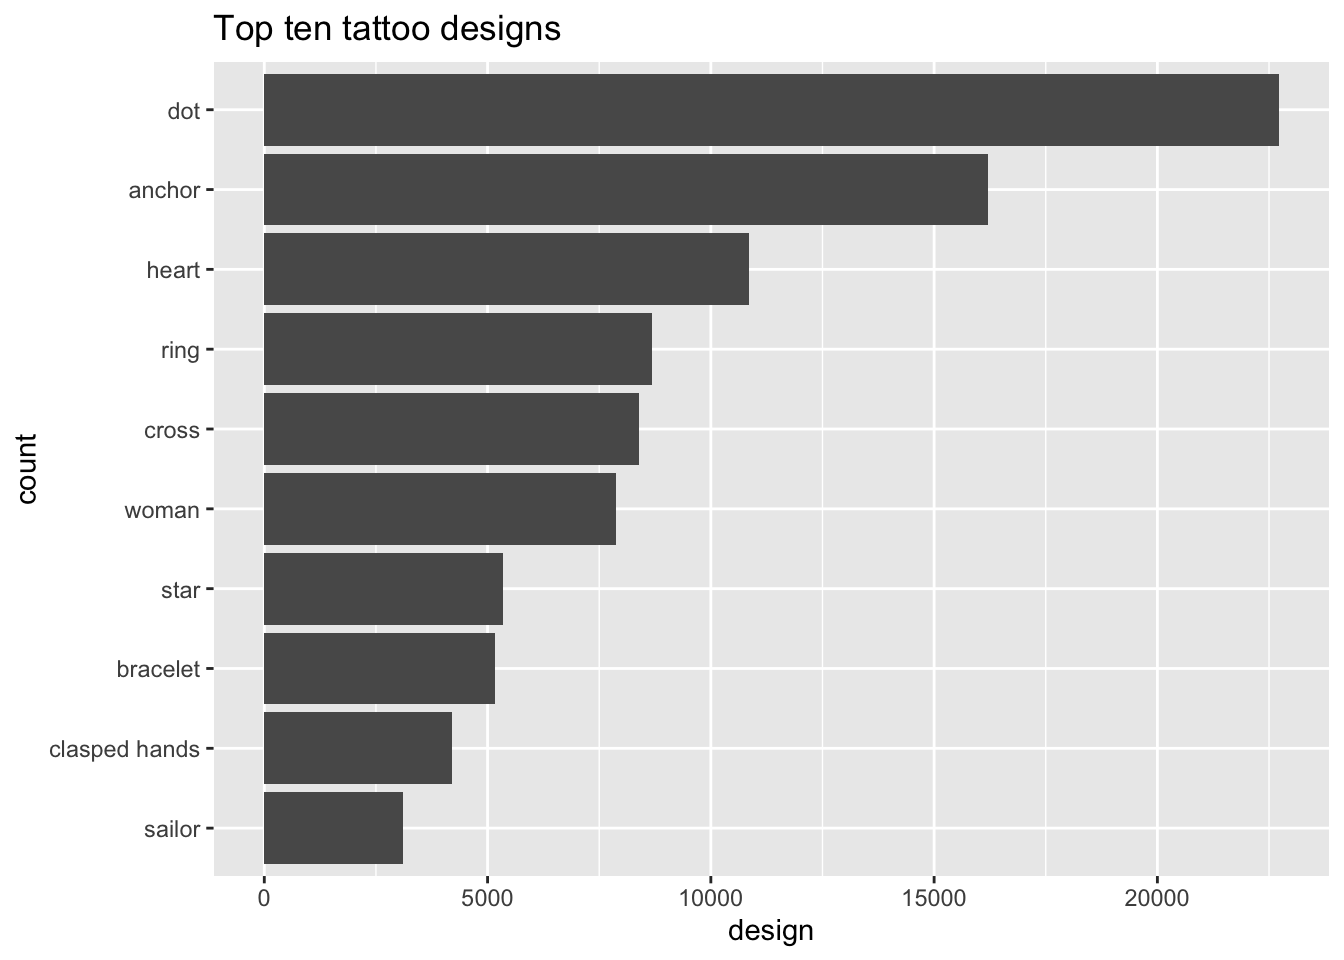
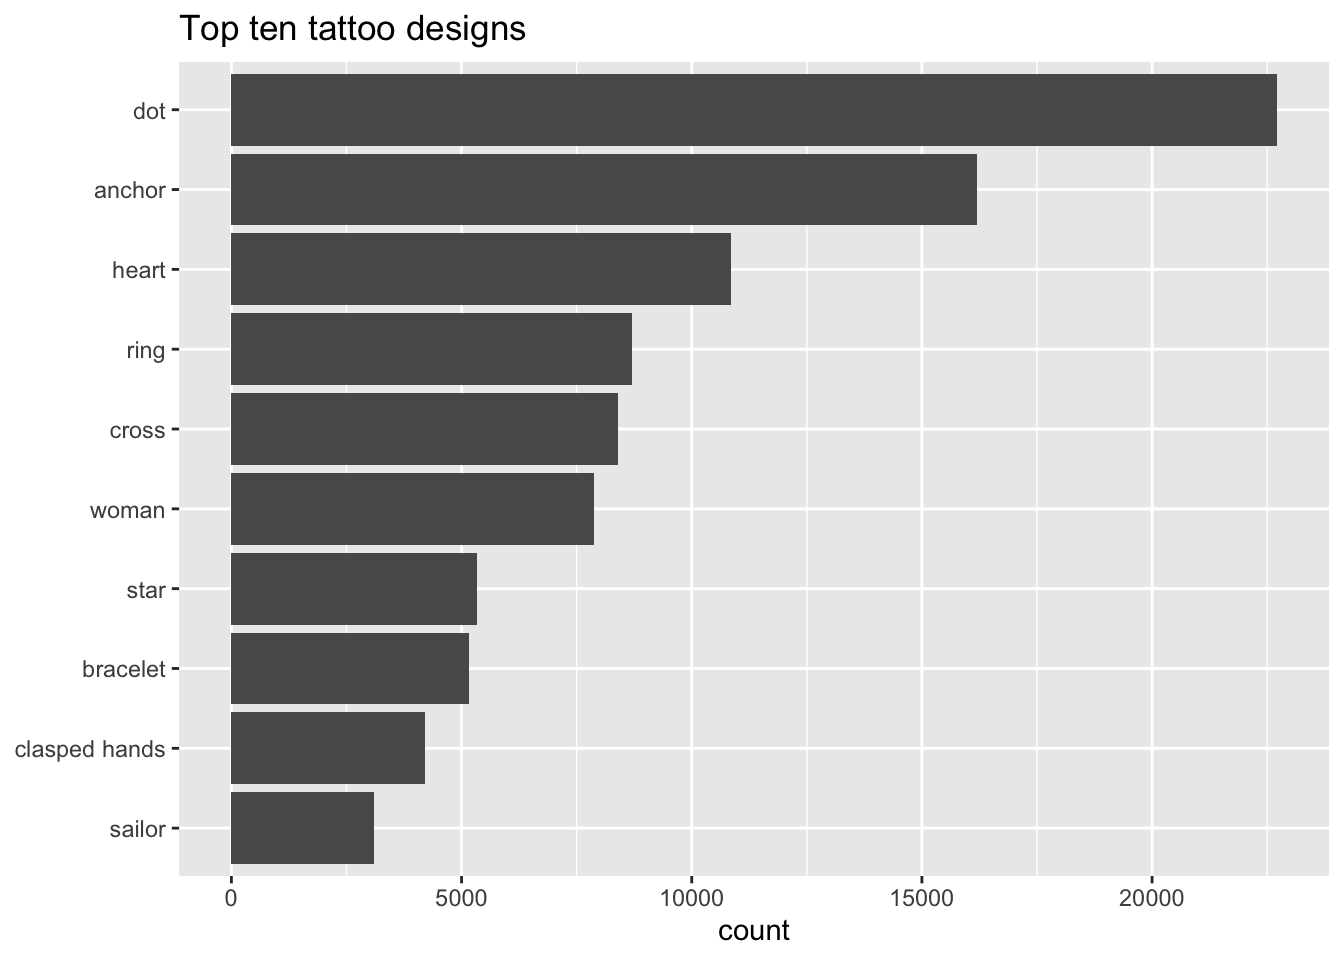
fixed an oops

diff --git a/post/2021/05/15/tidying-tattoos/index.html b/post/2021/05/15/tidying-tattoos/index.html
@@ -77,7 +77,7 @@
 <li>Each observation must have its own row.</li>
 <li>Each value must have its own cell.</li>
 </ul>
-<p>Data generally needs to be in a tidy format to work with R <a href="https://www.tidyverse.org/">Tidyverse</a> tools. But it isn’t necessarily the best format for data entry or storage, and very few real world datasets are tidy. So it’s almost always necessary to do some <em>tidying</em> as well as cleaning up more general messiness before being able to analyse data, and the Criminal Tattoos data is no exception. This post introduces just a couple of very common issues:</p>
+<p>Data usually needs to be in a tidy format to work with R <a href="https://www.tidyverse.org/">Tidyverse</a> tools. But it isn’t necessarily the best format for data entry or storage, and very few real world datasets are tidy. So it’s almost always necessary to do some <em>tidying</em> as well as cleaning up more general messiness before being able to analyse data, and the Criminal Tattoos data is no exception. This post introduces just a couple of very common issues:</p>
 <ul>
 <li>cleaning: missing data, which can be encoded in varying ways</li>
 <li>tidying: multiple values in a single cell</li>
@@ -388,7 +388,7 @@ tattoo_chunks_tattoos_unnest_tokens</code></pre>
   ggplot(aes(x=fct_reorder(design, n), y=n)) +
   geom_col() +
   coord_flip() +
-  labs(x=&quot;count&quot;, y=&quot;design&quot;, title=&quot;Top ten tattoo designs&quot;)</code></pre>
+  labs(y=&quot;count&quot;, x=NULL, title=&quot;Top ten tattoo designs&quot;)</code></pre>
 <p><img src="https://CriminalTattoos.github.io/post/2021/05/15/tidying-tattoos/index_files/figure-html/top-ten-designs-1.png" title="Horizontal bar chart of the ten most popular tattoo designs: dot, anchor, heart, ring, cross, woman, star, bracelet, clasped hands, sailor." alt="Horizontal bar chart of the ten most popular tattoo designs: dot, anchor, heart, ring, cross, woman, star, bracelet, clasped hands, sailor." width="672" /></p>
 <p>Which are the most popular body locations for tattoos? This needs more cleaning, but you get the gist.</p>
 <pre class="r"><code>tattoo_chunks_unnest_tokens_separated %&gt;%
@@ -398,7 +398,7 @@ tattoo_chunks_tattoos_unnest_tokens</code></pre>
   ggplot(aes(x=fct_reorder(body, n), y=n)) +
   geom_col() +
   coord_flip() +
-  labs(x=&quot;count&quot;, y=NULL, title=&quot;Top ten tattoo locations&quot;)</code></pre>
+  labs(y=&quot;count&quot;, x=NULL, title=&quot;Top ten tattoo locations&quot;)</code></pre>
 <p><img src="https://CriminalTattoos.github.io/post/2021/05/15/tidying-tattoos/index_files/figure-html/top-ten-tattoo-locations-1.png" title="Horizontal bar chart of the ten most popular body locations; needs more cleaning, but indicates that arms and hands are the most popular." alt="Horizontal bar chart of the ten most popular body locations; needs more cleaning, but indicates that arms and hands are the most popular." width="672" /></p>
 <p>And here’s one I cleaned up earlier…</p>
 </div>

diff --git a/index.html b/index.html
@@ -48,7 +48,7 @@
 <p>While tattooing has been the subject of a few studies, particularly of convicts transported to Tasmania (1802-53) and imprisoned in Ireland (1895-99), most research to date has been based on limited data and there is much that we still do not understand about the practice. While tattoos can be interpreted as expressions of convicts' individuality and aspirations, official practices of recording tattoos when documenting their physical characteristics can be seen as a form of state control. It is unclear why convicts engaged in a practice which facilitated such control, and whether the increasing use of tattooing signalled the growth of a defiant criminal subculture, or of more inclusive cultural aspirations.</p>
 <p>The <a href="https://www.digitalpanopticon.org">Digital Panopticon</a>, launched in September 2017, brings together fifty existing datasets of criminal justice records for reuse, linking convict records together to enable life course analysis of over 250,000 convicts. There are approximately 60,000 descriptions of tattooed convicts in the Digital Panopticon, but the information is not currently systematically accessible, as it is intermixed with other physical details, such as eye colour, scars, bodily shape and physical infirmities, often using extensive abbreviations and inconsistent punctuation:</p>
 <blockquote>
-<p>Crucifix above elbow Joint rt arm deep dimple on chin Scar near outer corner rt eye Moon &amp; 7 stars JW mermaid anchor JC MD JD TD &amp; Cannon (Prop) inside rt arm  (James Rees, transported to Tasmania in 1826)  </p>
+<p>Crucifix above elbow Joint rt arm deep dimple on chin Scar near outer corner rt eye Moon &amp; 7 stars JW mermaid anchor JC MD JD TD &amp; Cannon (Prop) inside rt arm  (James Rees, transported to Tasmania in 1826)</p>
 </blockquote>
 <p>In addition to the challenge of extracting relevant information concerning tattoos from the highly varied physical description fields in the Digital Panopticon, a second technical challenge exists in coping with the complexity of the multiple variables available, and in summarising such voluminous and diverse data.</p>
 <p>Via Digital Panopticon&rsquo;s &lsquo;life archives&rsquo;, information about tattoos can be linked to a large amount of other evidence about the convict, including their gender, age, occupation, religion, place of origin, type of crime committed, previous convictions, and punishment. The Digital Panopticon has experimented with a number of visualisations to summarise this data and detect patterns, notably Sankey diagrams, pie charts, and specially developed &lsquo;life charts&rsquo;, but these formats are inadequate to the task of displaying complex multivariate data about convicts and their tattoos. The Tattoos project will use this blog to explore and experiment with techniques for visualising complex historical datasets.</p>
